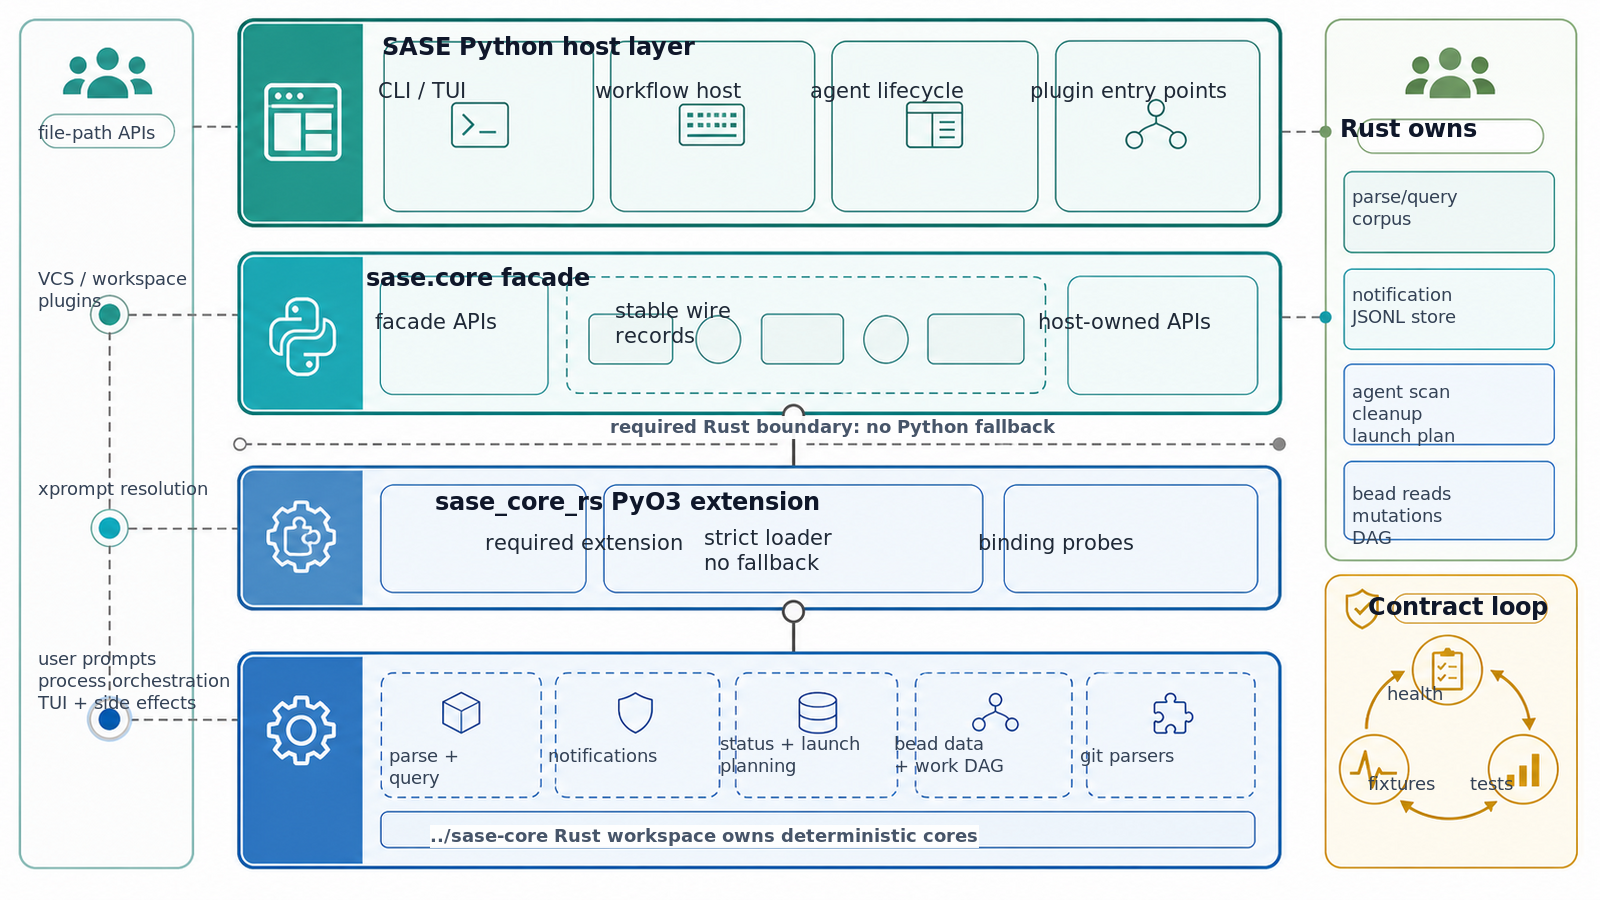
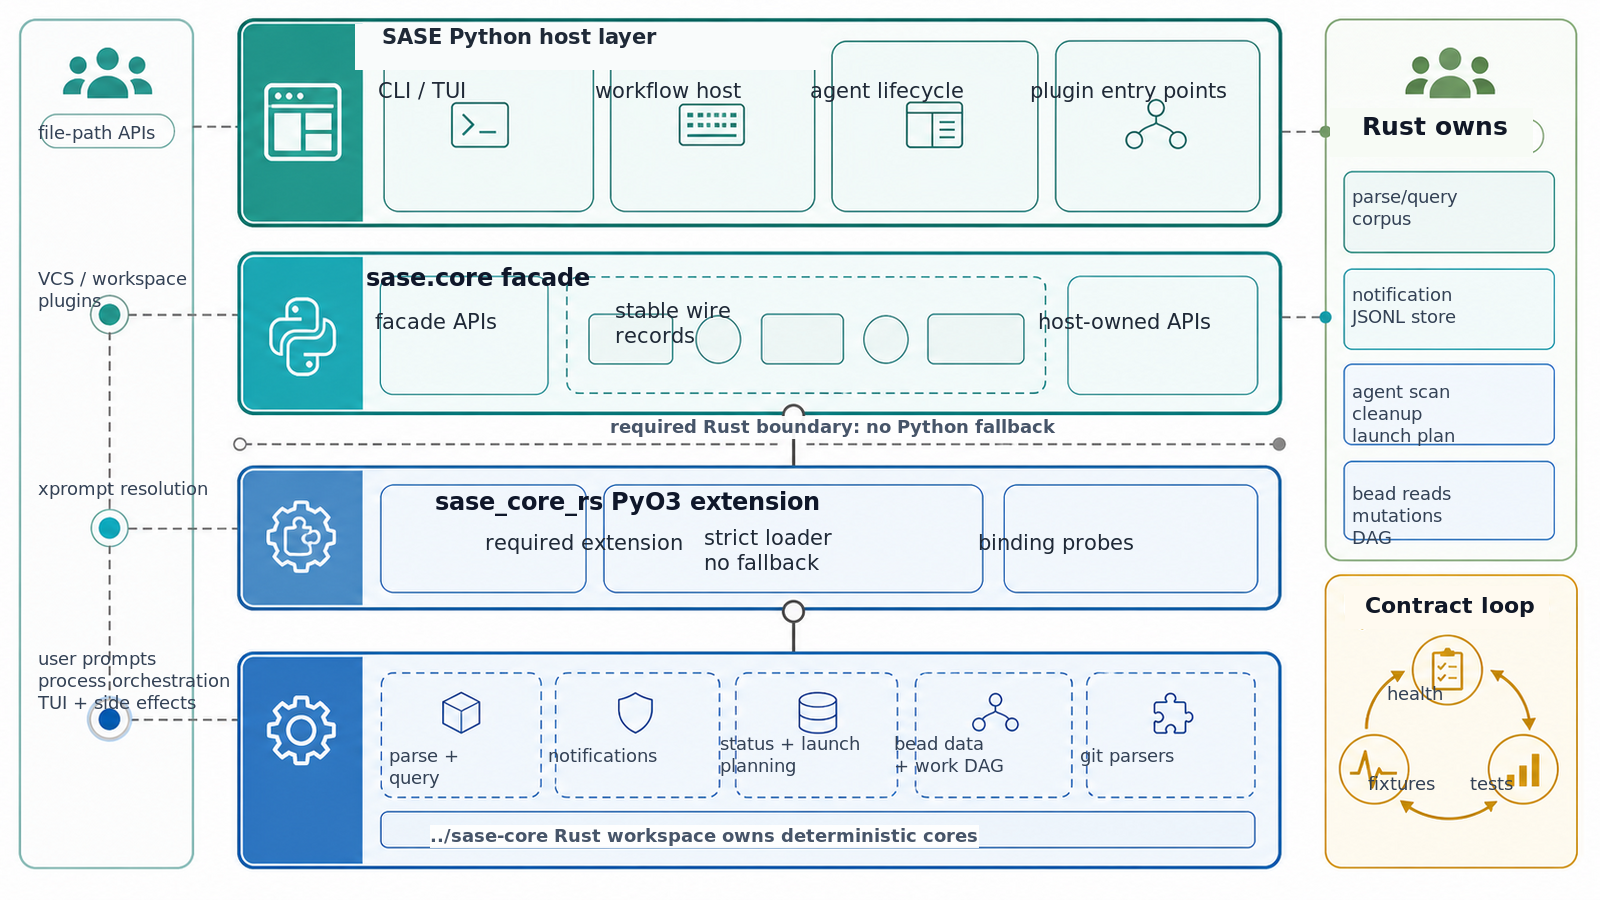
chore: polish docs infographic readability (sase-1z.7)
Tighten labels on the xprompt and Rust backend infographics after the cross-doc QA pass.

Changed region(s): [[0.2188, 0.0311, 0.5, 0.0622], [0.8438, 0.6533, 0.9688, 0.6844], [0.8438, 0.1244, 0.9688, 0.1556]]

diff --git a/docs/images/rust-backend-boundary-infographic.prompt.md b/docs/images/rust-backend-boundary-infographic.prompt.md
@@ -35,4 +35,5 @@ symbolism, one-hue purple/blue gradient theme.
 ## Post-Processing Notes
 
 The generated image was used as the no-text architecture background. Final labels were added deterministically with
-ImageMagick so the committed PNG uses exact doc terminology and avoids generated-text misspellings.
+ImageMagick so the committed PNG uses exact doc terminology and avoids generated-text misspellings. Phase 7 QA adjusted
+overlapping layer, ownership, and contract-loop labels for GitHub Markdown readability.

diff --git a/docs/images/xprompt-resolution-infographic.prompt.md b/docs/images/xprompt-resolution-infographic.prompt.md
@@ -39,3 +39,5 @@ unambiguous.
 - Labels intentionally stay short and cover the documented flow: reference inputs, protected/disabled-region masking,
   parsing, aliases, discovery priority, typed input validation, Jinja2/directive rendering, dynamic memory, standalone
   workflow launch, workflow graph inspection, and one-level multi-agent fan-out.
+- Phase 7 QA polished the final overlay to remove clipped section/output labels while preserving the original diagram
+  structure.
